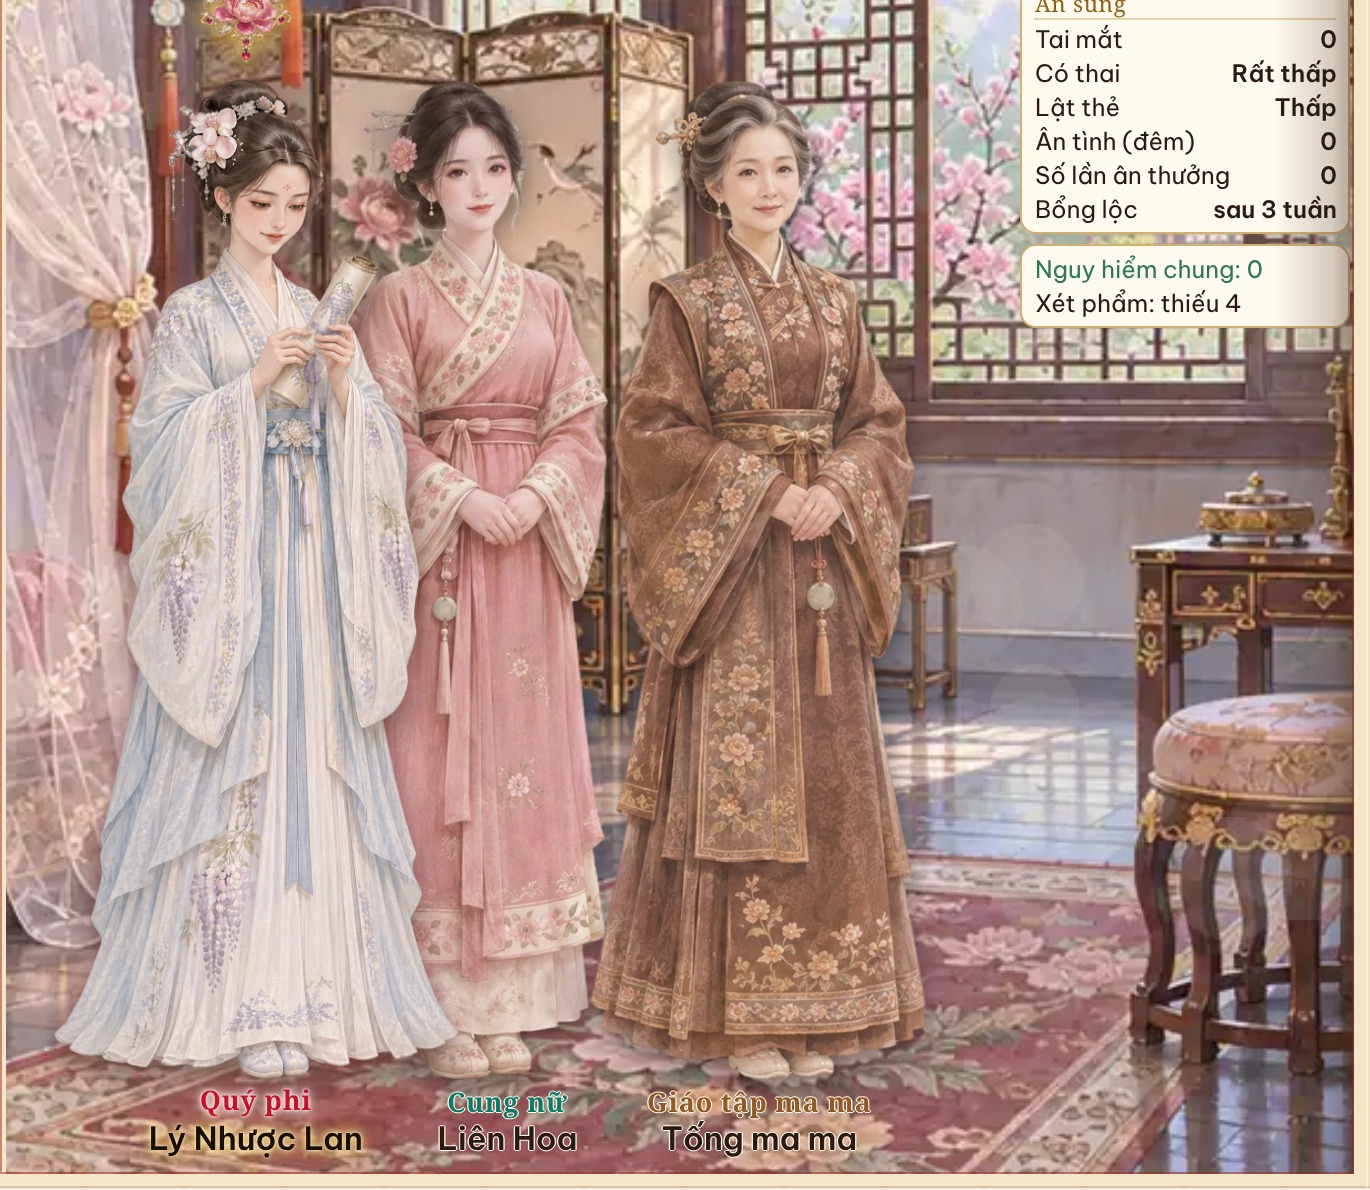
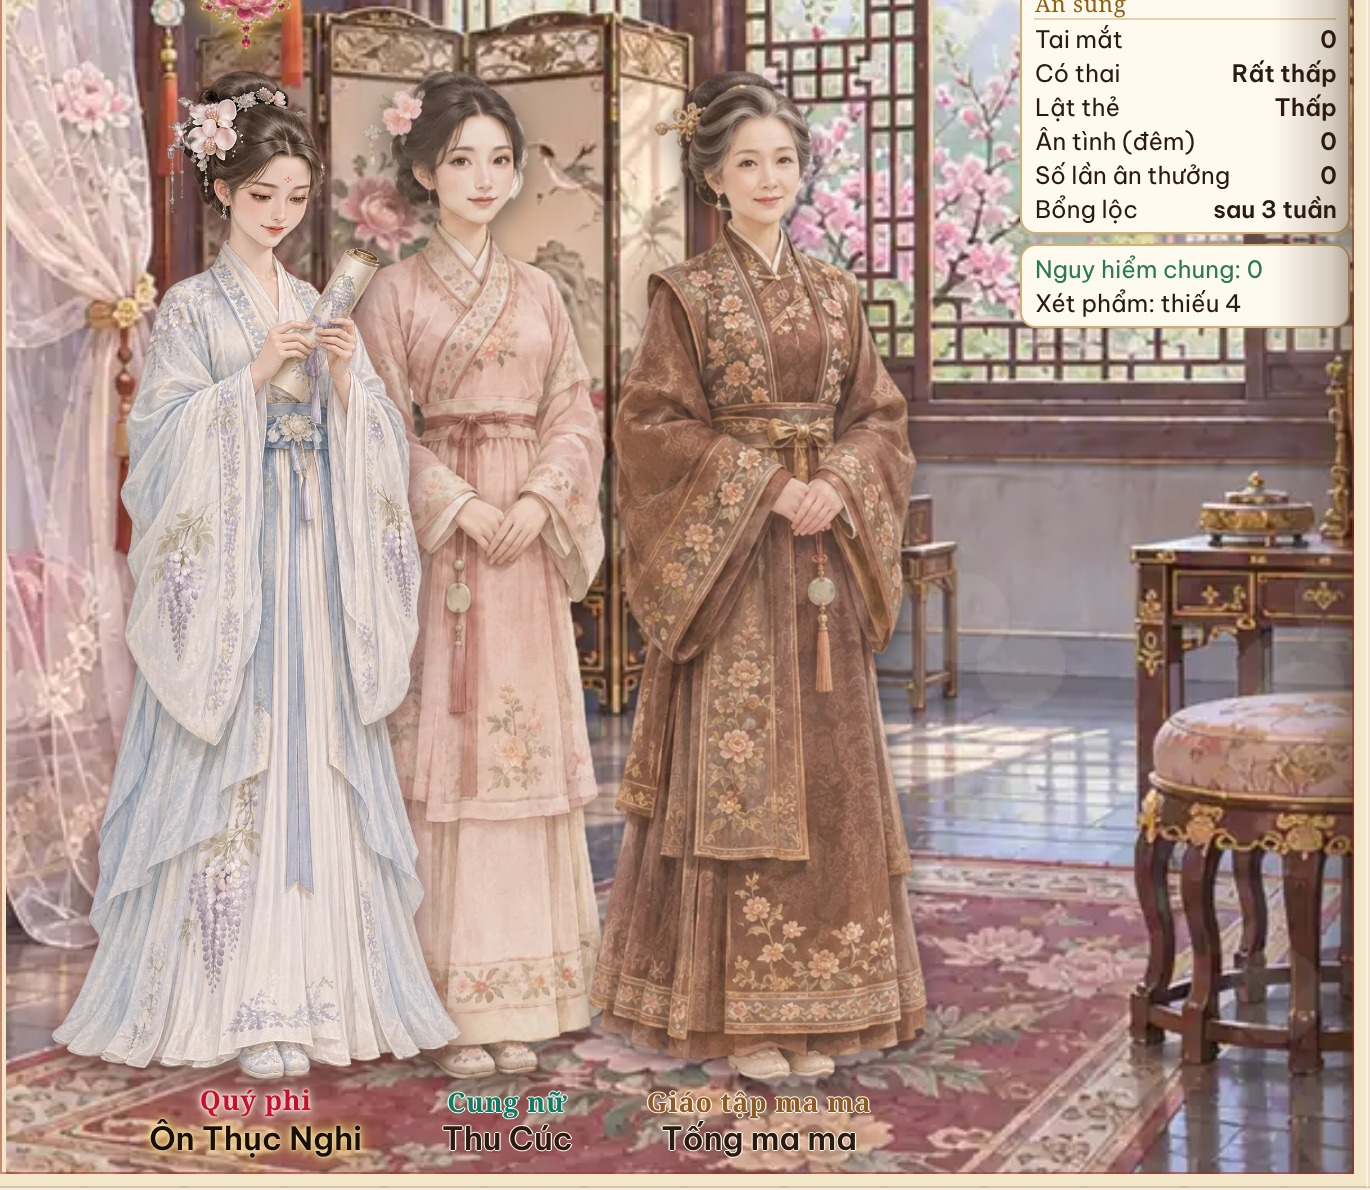
fig-cutout-clean: fit_fig.py (height = old sprite), qa --old, in-room redo at equal height
Claude-Session: https://claude.ai/code/session_011xDdVSheHFnhXPEAMEEfZT

diff --git a/dev/handover/reports/fig-cutout-clean/tools/qa_fig.py b/dev/handover/reports/fig-cutout-clean/tools/qa_fig.py
@@ -16,7 +16,7 @@ from PIL import Image
 from scipy import ndimage as ndi
 
 EDGE_A = 20
-HALO_FAIL = 60      # semi-alpha rim px per 10k rim px that are >40 lum darker than neighbouring opaque colour
+HALO_FAIL = 300     # (x10 = FAIL at >3000/10k; WARN >900x... see below; calibrated 16/11: new masters 600-1400 look clean on dark+light, old ty halos 5400-7700)  # semi-alpha rim px per 10k rim px that are >40 lum darker than neighbouring opaque colour
 TRANSL_FAIL = 40    # per 10k interior px
 CDN = "https://ctm-img.victoria-tntt.workers.dev/"
 
@@ -90,7 +90,7 @@ def huadian(rgb, al, fb, fm):
     w = max(xx.max() - xx.min() + 1, yy.max() - yy.min() + 1)
     return {"ratio": round(float(w) / fw, 3), "mark_px": int(w), "face_w": int(fw)}
 
-def qa(img, ref=None, kind="master"):
+def qa(img, ref=None, kind="master", old=None):
     a = np.asarray(img); al = a[..., 3].astype(int); rgb = a[..., :3]
     H, W = al.shape
     res = {"size": f"{W}x{H}"}; fails = []; warns = []
@@ -99,12 +99,14 @@ def qa(img, ref=None, kind="master"):
     # edge
     b = 2
     border = np.zeros_like(sil); border[:b] = border[-b:] = True; border[:, :b] = border[:, -b:] = True
+    if kind in ("fig", "hd"):   # shipped sprites: old files fill the canvas height (head top = 0, feet = 100 %), so only L/R contact is a fault
+        border[:b] = border[-b:] = False
     ep = int(((al > EDGE_A) & border).sum()); res["edge_px"] = ep
     ys, xs = np.nonzero(al > EDGE_A)
     gaps = {"L": xs.min() / W, "R": (W - 1 - xs.max()) / W, "T": ys.min() / H, "B": (H - 1 - ys.max()) / H}
     res["gap_pct"] = {k: round(v * 100, 1) for k, v in gaps.items()}
     if ep: fails.append(f"edge: {ep} px alpha on canvas border (cut hem/sleeve)")
-    elif min(gaps.values()) < .03: warns.append("edge: <3% margin on a side")
+    elif min(gaps.values() if kind not in ("fig", "hd") else [gaps["L"], gaps["R"]]) < .03: warns.append("edge: <3% margin on a side")
     # halo
     semi = (al > 20) & (al < 235)
     opaque = al >= 235
@@ -114,7 +116,7 @@ def qa(img, ref=None, kind="master"):
     dark = semi & (lum < nlum - 40)
     res["halo_per10k"] = round(10000 * dark.sum() / max(1, semi.sum()), 1)
     if res["halo_per10k"] > HALO_FAIL * 10: fails.append(f"halo: {res['halo_per10k']}/10k rim px darker than neighbour")
-    elif res["halo_per10k"] > HALO_FAIL * 3: warns.append(f"halo: {res['halo_per10k']}/10k (look on dark+light)")
+    elif res["halo_per10k"] > HALO_FAIL * 5: warns.append(f"halo: {res['halo_per10k']}/10k (look on dark+light)")
     # holes
     filled = ndi.binary_fill_holes(sil); holes = filled & ~sil
     lab, n = ndi.label(holes); hs = ndi.sum(holes, lab, range(1, n + 1)) if n else []
@@ -138,7 +140,7 @@ def qa(img, ref=None, kind="master"):
         warns.append("face not found (skin detector) -> huadian/skin not measured")
     else:
         hd = huadian(rgb, al, fb, fm); res["huadian"] = hd
-        if hd and hd["ratio"] > .125: fails.append(f"huadian {hd['ratio']} x face width (target 0.085)")
+        if hd and hd["ratio"] > .125: warns.append(f"huadian auto {hd['ratio']} x face width (target 0.085; auto is unreliable - LOOK at forehead, no teardrop)")
         elif hd and hd["ratio"] > .100: warns.append(f"huadian {hd['ratio']} (target 0.085) - look")
         lab_img = rgb2lab(rgb.astype(float))
         sk = lab_img[fm]; res["skin_lab"] = [round(float(v), 1) for v in np.median(sk, 0)]
@@ -150,16 +152,22 @@ def qa(img, ref=None, kind="master"):
                 dE = float(np.linalg.norm(np.median(sk, 0) - rl)); res["skin_dE_vs_ref"] = round(dE, 1)
                 if dE > 10: fails.append(f"skin dE {dE:.1f} vs reference")
                 elif dE > 6: warns.append(f"skin dE {dE:.1f} vs reference")
+    if old is not None:   # height vs old sprite (same canvas-height basis): figure bbox height / canvas height within +-2 %
+        oa = np.asarray(old)[..., 3] > EDGE_A; oy = np.nonzero(oa.any(1))[0]
+        oh_ = (oy.max() - oy.min() + 1) / old.height; nh_ = (fy1 - fy0 + 1) / H
+        res["height_vs_old_pct"] = round(100 * (nh_ / oh_ - 1), 1)
+        if abs(res["height_vs_old_pct"]) > 2: fails.append(f"figure height {res['height_vs_old_pct']:+}% vs old sprite (fit_fig.py)")
+        res["top_vs_old_pct_pts"] = round(100 * (ys.min() / H - np.nonzero(oa.any(1))[0].min() / old.height), 1)
     res["fails"] = fails; res["warns"] = warns
     res["overall"] = "FAIL" if fails else ("WARN" if warns else "PASS")
     return res
 
 if __name__ == "__main__":
-    ap = argparse.ArgumentParser(); ap.add_argument("files", nargs="+"); ap.add_argument("--ref"); ap.add_argument("--kind", default="master"); ap.add_argument("--json", action="store_true")
-    o = ap.parse_args(); ref = load(o.ref) if o.ref else None
+    ap = argparse.ArgumentParser(); ap.add_argument("files", nargs="+"); ap.add_argument("--ref"); ap.add_argument("--old", help="old sprite: checks figure height vs old within 2%%"); ap.add_argument("--kind", default="master"); ap.add_argument("--json", action="store_true")
+    o = ap.parse_args(); ref = load(o.ref) if o.ref else None; old = load(o.old) if o.old else None
     bad = 0
     for f in o.files:
-        try: r = qa(load(f), ref, o.kind)
+        try: r = qa(load(f), ref, o.kind, old)
         except Exception as e: r = {"overall": "FAIL", "fails": [f"unreadable: {e}"]}
         r["file"] = f; bad += r["overall"] == "FAIL"
         print(json.dumps(r, ensure_ascii=False) if o.json else f"{r['overall']:4} {f} {r.get('size','')} " + "; ".join(r.get("fails", []) + r.get("warns", [])))

diff --git a/dev/handover/reports/fig-cutout-clean/tools/fit_fig.py b/dev/handover/reports/fig-cutout-clean/tools/fit_fig.py
@@ -1,0 +1,34 @@
+#!/usr/bin/env python3
+"""fit_fig.py MASTER.png OLD(file|img/path.webp|URL) OUT.(png|webp) [--H 900] [--pad 0.08]
+Crop the new master to its alpha bbox, scale it so the figure is EXACTLY as tall as the OLD sprite's figure
+(same head-top y and feet y in a canvas of height H, H=900 for fig, 1800 for hd with the old bbox scaled x2),
+canvas width = figure width + pad each side (hem/sleeves never touch an edge). Prints the old/new geometry.
+Reason (owner #1 complaint, 'người thì quá nhỏ, người thì quá to'): the game scales the whole canvas to the slot,
+so a wide/margined master shrinks the person; this keeps the on-screen height identical to the old file.
+python3 -I; needs numpy pillow."""
+import sys, io, subprocess, argparse
+import numpy as np
+from PIL import Image
+CDN = "https://ctm-img.victoria-tntt.workers.dev/"
+def load(s):
+    if s.startswith("http") or s.startswith("img/"):
+        r = subprocess.run(["curl", "-s", "--max-time", "60", s if s.startswith("http") else CDN + s], capture_output=True)
+        return Image.open(io.BytesIO(r.stdout)).convert("RGBA")
+    return Image.open(s).convert("RGBA")
+def bbox(im, thr=20):
+    a = np.asarray(im)[..., 3] > thr; ys, xs = np.nonzero(a)
+    return xs.min(), ys.min(), xs.max() + 1, ys.max() + 1
+def fit(master, old, H=900, pad=0.08):
+    ob = bbox(old); oh = old.height
+    top = ob[1] / oh * H; bot = ob[3] / oh * H; fh = bot - top          # old figure span in the H-canvas
+    nb = bbox(master); fig = master.crop(nb); s = fh / fig.height
+    fig = fig.resize((max(1, round(fig.width * s)), round(fh)), Image.LANCZOS)
+    pw = round(fig.width * pad); W = fig.width + 2 * pw
+    out = Image.new("RGBA", (W, H), (0, 0, 0, 0)); out.alpha_composite(fig, (pw, round(top)))
+    return out, {"old_canvas": old.size, "old_top_pct": round(ob[1] / oh * 100, 1), "old_feet_pct": round(ob[3] / oh * 100, 1),
+                 "old_fig_h_pct": round((ob[3] - ob[1]) / oh * 100, 1), "scale": round(s, 3), "out": out.size}
+if __name__ == "__main__":
+    ap = argparse.ArgumentParser(); ap.add_argument("master"); ap.add_argument("old"); ap.add_argument("out")
+    ap.add_argument("--H", type=int, default=900); ap.add_argument("--pad", type=float, default=.08); o = ap.parse_args()
+    img, info = fit(Image.open(o.master).convert("RGBA"), load(o.old), o.H, o.pad)
+    img.save(o.out, **({"quality": 95, "method": 6} if o.out.endswith("webp") else {})); print(info)

diff --git a/dev/handover/reports/fig-cutout-clean.md b/dev/handover/reports/fig-cutout-clean.md
@@ -99,3 +99,7 @@ IN-ROOM (iPad Pro 1366x1024 @2, real build of main, Thừa Minh stage; CDN conso
 ## c28-t2 REDO (16/11 ~22:25Z, Foreman C: owner hates the teardrop huadian)
 v1 had a pink TEARDROP -> FAIL. v2 (65 cr, same refs): tiny five-petal plum-blossom huadian, soft pink-red, ~1/12 face width; looked at dark+light: flower, small, rest unchanged. Sheets urgent5/c28-t2-a18-before-after-{light,dark}.jpg replaced. Not on CDN.
 STANDING PROMPT RULE (every generation in the batch): "HUADIAN: a TINY flower / leaf / butterfly / phoenix mark only, about 1/12 of face width; NO teardrop, NO droplet, NO dot, NO other shape." QA for the whole batch: LOOK at the forehead crop of every file (auto ratio is unreliable) — any teardrop/droplet = FAIL + regenerate; qa_fig prints a forehead crop strip for this (TODO next: add --crop output of the forehead 3x to qa_fig so the check is a single contact sheet per batch).
+
+## HEIGHT FIX (16/11 ~22:40Z, Foreman C: new c30 stood shorter than maid/ma ma)
+Cause: old sprites fill the canvas height exactly (head top y=0, feet y=100 %); the game scales the whole canvas, so my margined 1024x2048 master shrank the person. Fix = tools/fit_fig.py MASTER OLD OUT [--H 900|1800] [--pad 0.08]: crop master to alpha bbox, scale so the figure is exactly as tall as the OLD figure (same top/feet line), canvas width = figure + 8 % each side (L/R never touch). Mandatory step for EVERY generated file before QA/upload (hd: --H 1800). qa_fig.py now has --old OLD (figure height vs old within +-2 %, top offset) and --kind fig|hd (only L/R canvas contact is a fault, top/bottom flush is how the old sprites are). Halo thresholds recalibrated (FAIL >3000/10k, WARN >1500; new masters 600-1400 look clean at 3x on dark+light; old ty halos 5400-7700). Huadian auto-ratio is a WARN only (unreliable); the real check is the forehead crop by eye (no teardrop).
+IN-ROOM redo (same slot, iPad Pro 1366x1024@2, c30-t2 fitted at H=1800 = same geometry as the old file with 2x pixels): ingame-ipadpro-1366x1024x2-new-c30-t2-CROP.jpg + ...-old-vs-new-... : the three stand at equal height (head tops and feet on one line with the maid and ma ma).
